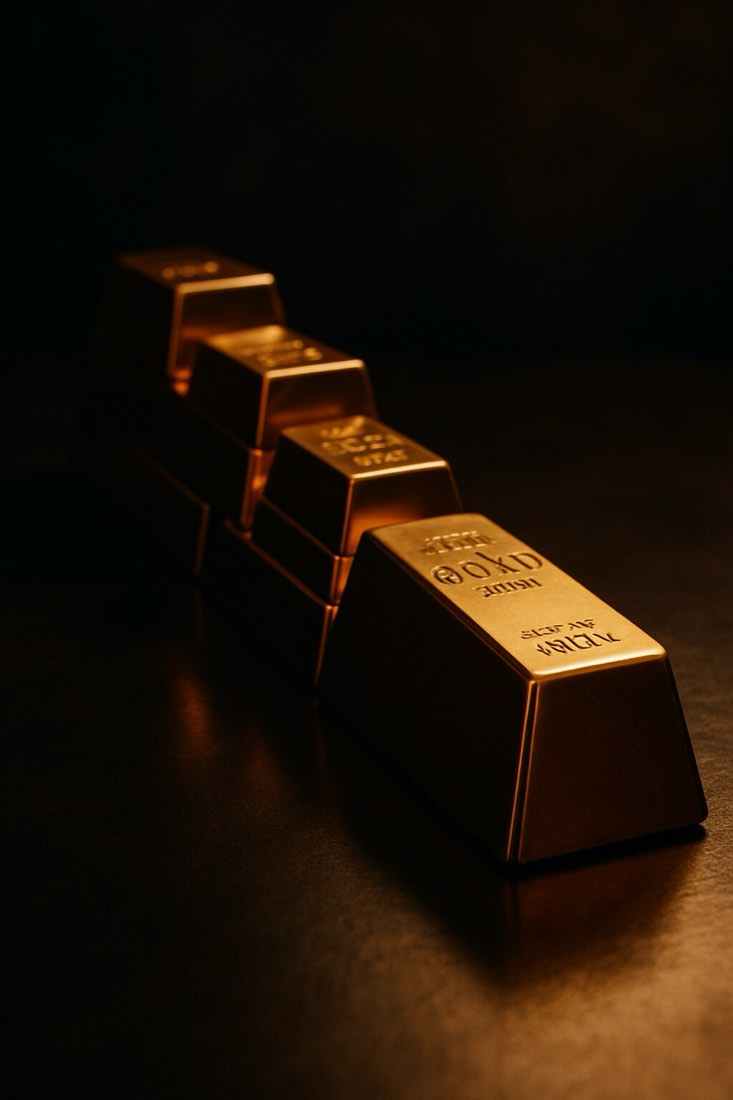
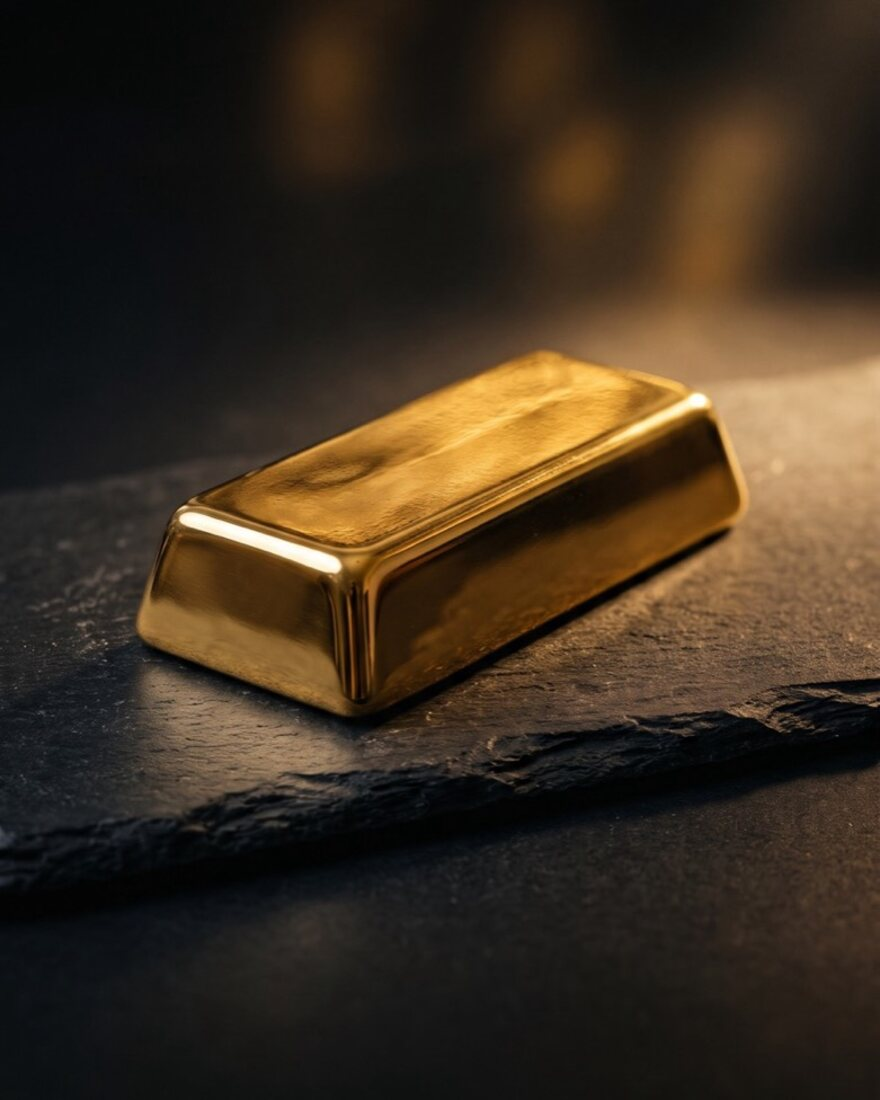
Quiz: Bild bei Dein Tipp durch echtes Barrenfoto ersetzt

diff --git a/quiz/index.html b/quiz/index.html
@@ -173,7 +173,7 @@ h2{font-size:clamp(26px,7.2vw,32px)}
 (function(){
 'use strict';
 var BILD=['start','betrag','jahr','art','tipp','ergebnis'];
-function src(k){return 'bilder/'+k.replace('_','-')+'.jpg';}
+function src(k){return 'bilder/'+k.replace('_','-')+'.jpg?v=2';}
 
 // Echte Daten aus Thomas' Rückrechner (rechner.fiebig-edelmetallfachberater.com)
 var G={1978:164.14,1979:354.84,1980:448.00,1981:368.16,1982:470.98,1983:462.95,1984:433.55,1985:368.27,1986:365.16,1987:374.75,1988:352.60,1989:331.09,1990:287.10,1991:264.87,1992:275.58,1993:350.87,1994:312.58,1995:302.82,1996:298.14,1997:262.98,1998:246.36,1999:289.56,2000:292.79,2001:314.24,2002:332.60,2003:332.34,2004:320.25,2005:433.53,2006:480.79,2007:567.33,2008:614.49,2009:760.70,2010:1059.19,2011:1201.63,2012:1259.57,2013:867.14,2014:987.10,2015:971.90,2016:1095.28,2017:1084.83,2018:1119.42,2019:1352.78,2020:1539.86,2021:1602.77,2022:1704.92,2023:1868.90,2024:2504.25,2025:3693.55};
